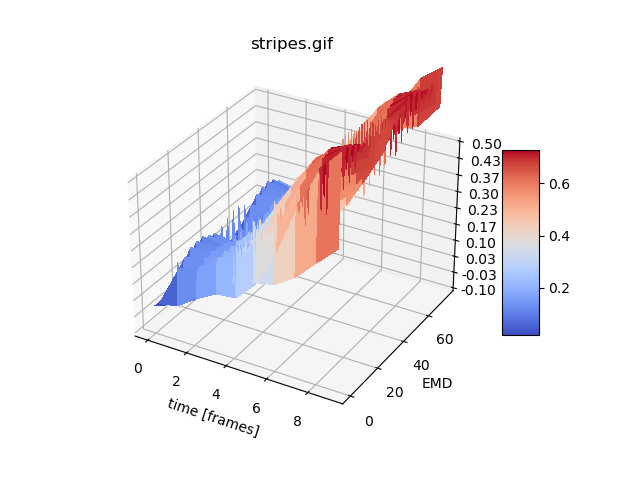
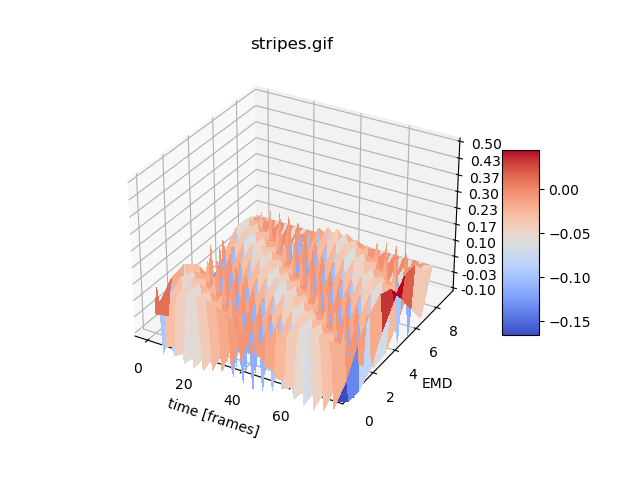
Added option to return the unfiltered version in get_emd_responses

diff --git a/basic_process.py b/basic_process.py
@@ -40,8 +40,8 @@ def get_emd_responses(frames, photoreceptor: PhotoreceptorImageConverter.Photore
         frequency_response_emd = [np.abs(np.fft.rfft(tr)) for tr in emd_mid_row_response]
         angle_response_emd = angle_response_from_frequency_response_array(frequency_response_emd)
         angle_response_over_time.append(angle_response_emd)
-    return np.array(angle_response_over_time)
-    #return np.array(emd_mid_row_response)
+    #return np.array(angle_response_over_time)  # filtered version
+    return np.array(emd_mid_row_response) # unfiltered version
 
 
 def angle_response_from_frequency_response_array(frequency_response_array: np.array) -> np.array:
